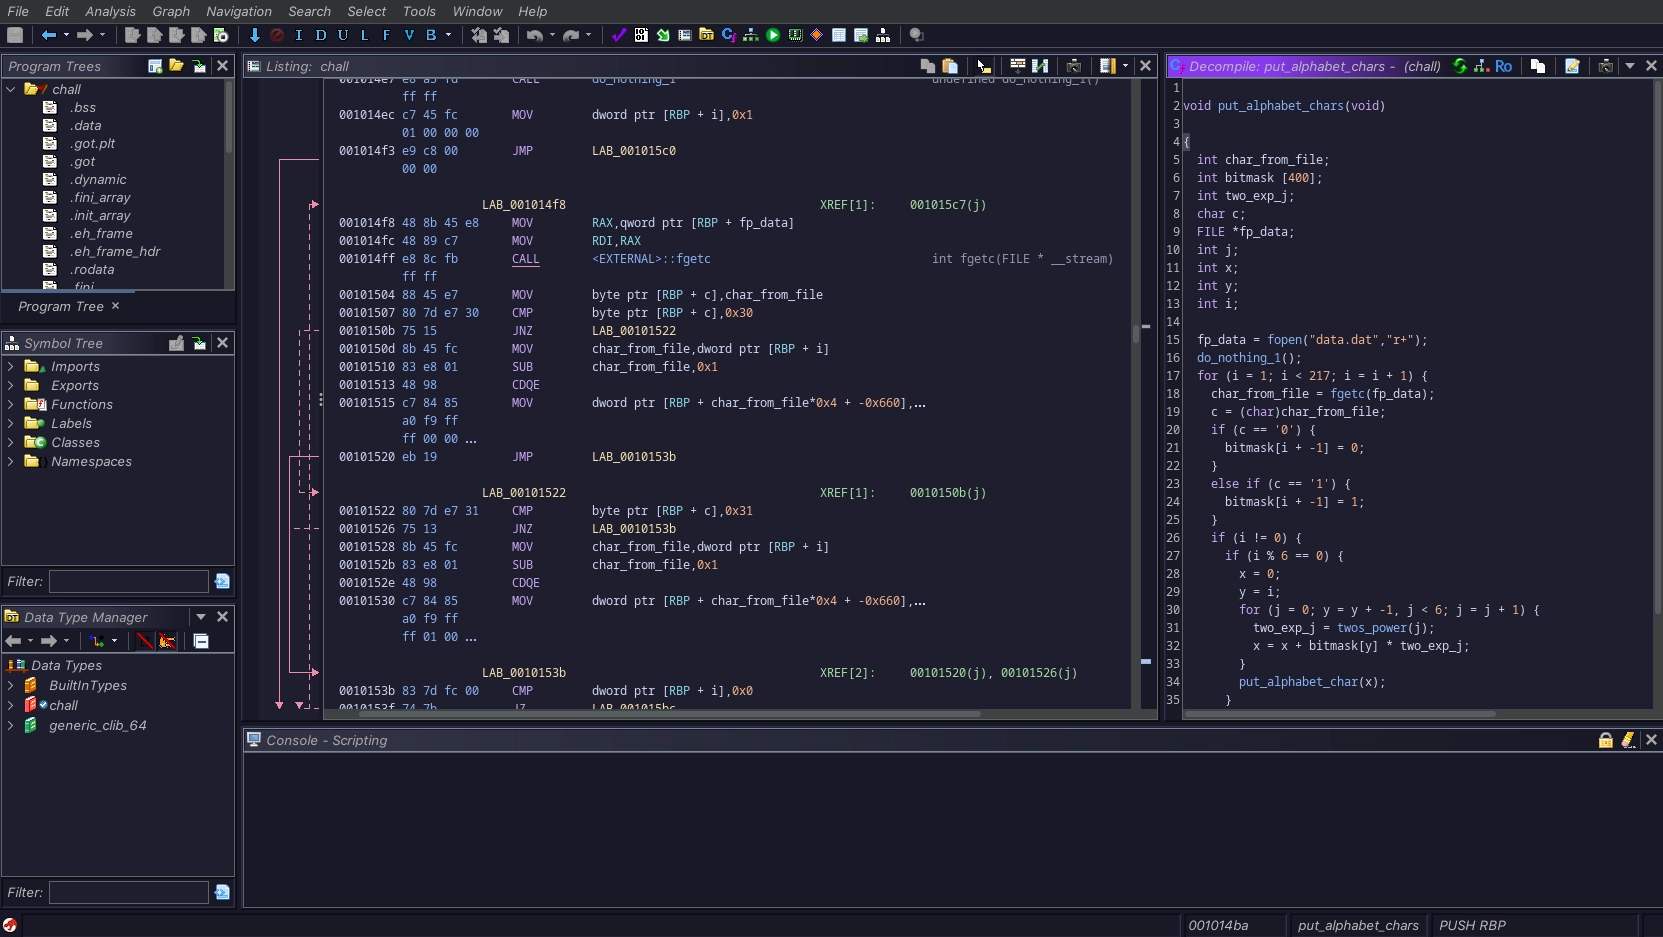
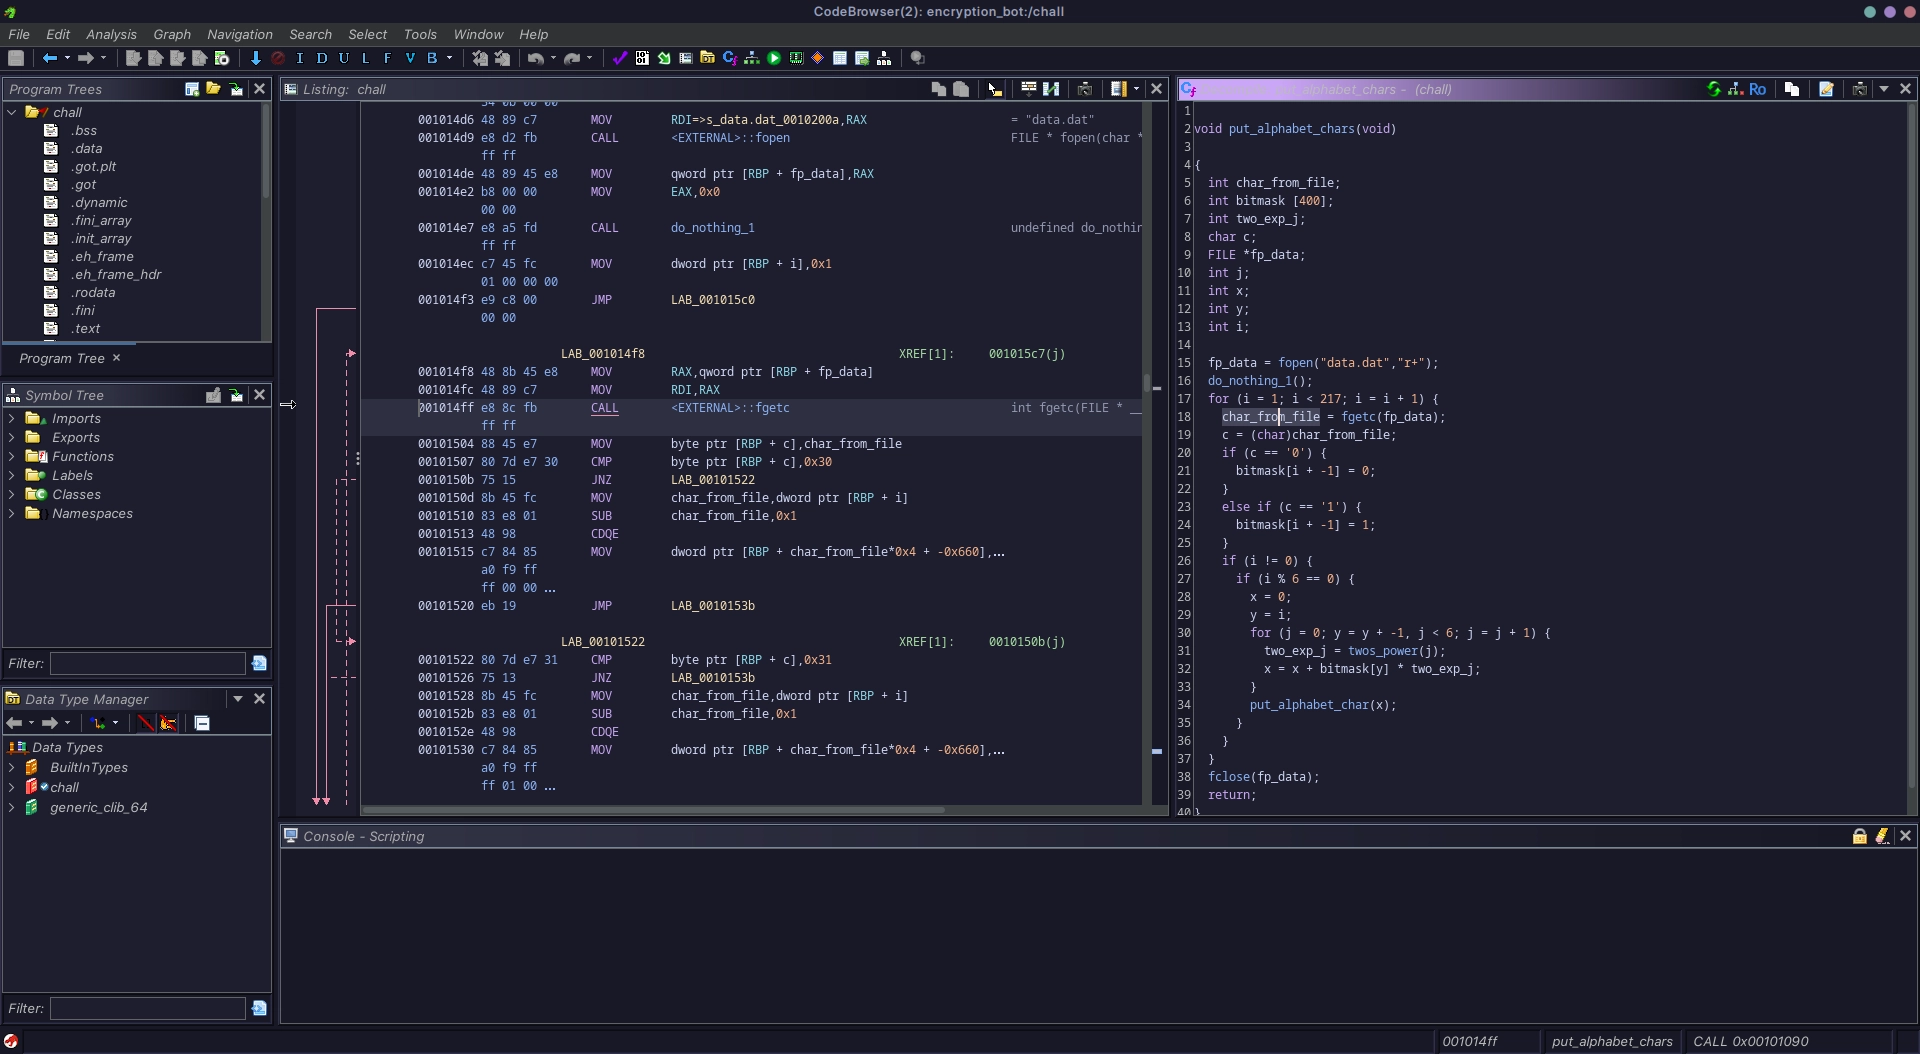
Fix themes + add new previews

diff --git a/README.md b/README.md
@@ -19,15 +19,15 @@
 
 <details>
 <summary>🌻 Latte</summary>
-Coming soon
+<img src="https://raw.githubusercontent.com/AnicJov/ghidra/main/assets/previews/latte.webp"/>
 </details>
 <details>
 <summary>🪴 Frappé</summary>
-Coming soon
+<img src="https://raw.githubusercontent.com/AnicJov/ghidra/main/assets/previews/frappe.webp"/>
 </details>
 <details>
 <summary>🌺 Macchiato</summary>
-Coming soon
+<img src="https://raw.githubusercontent.com/AnicJov/ghidra/main/assets/previews/macchiato.webp"/>
 </details>
 <details>
 <summary>🌿 Mocha</summary>
@@ -45,6 +45,7 @@ Coming soon
 ## 💝 Thanks to
 
 - [Anic](https://github.com/AnicJov)
+- [uncenter](https://github.com/uncenter)
 
 &nbsp;
 
